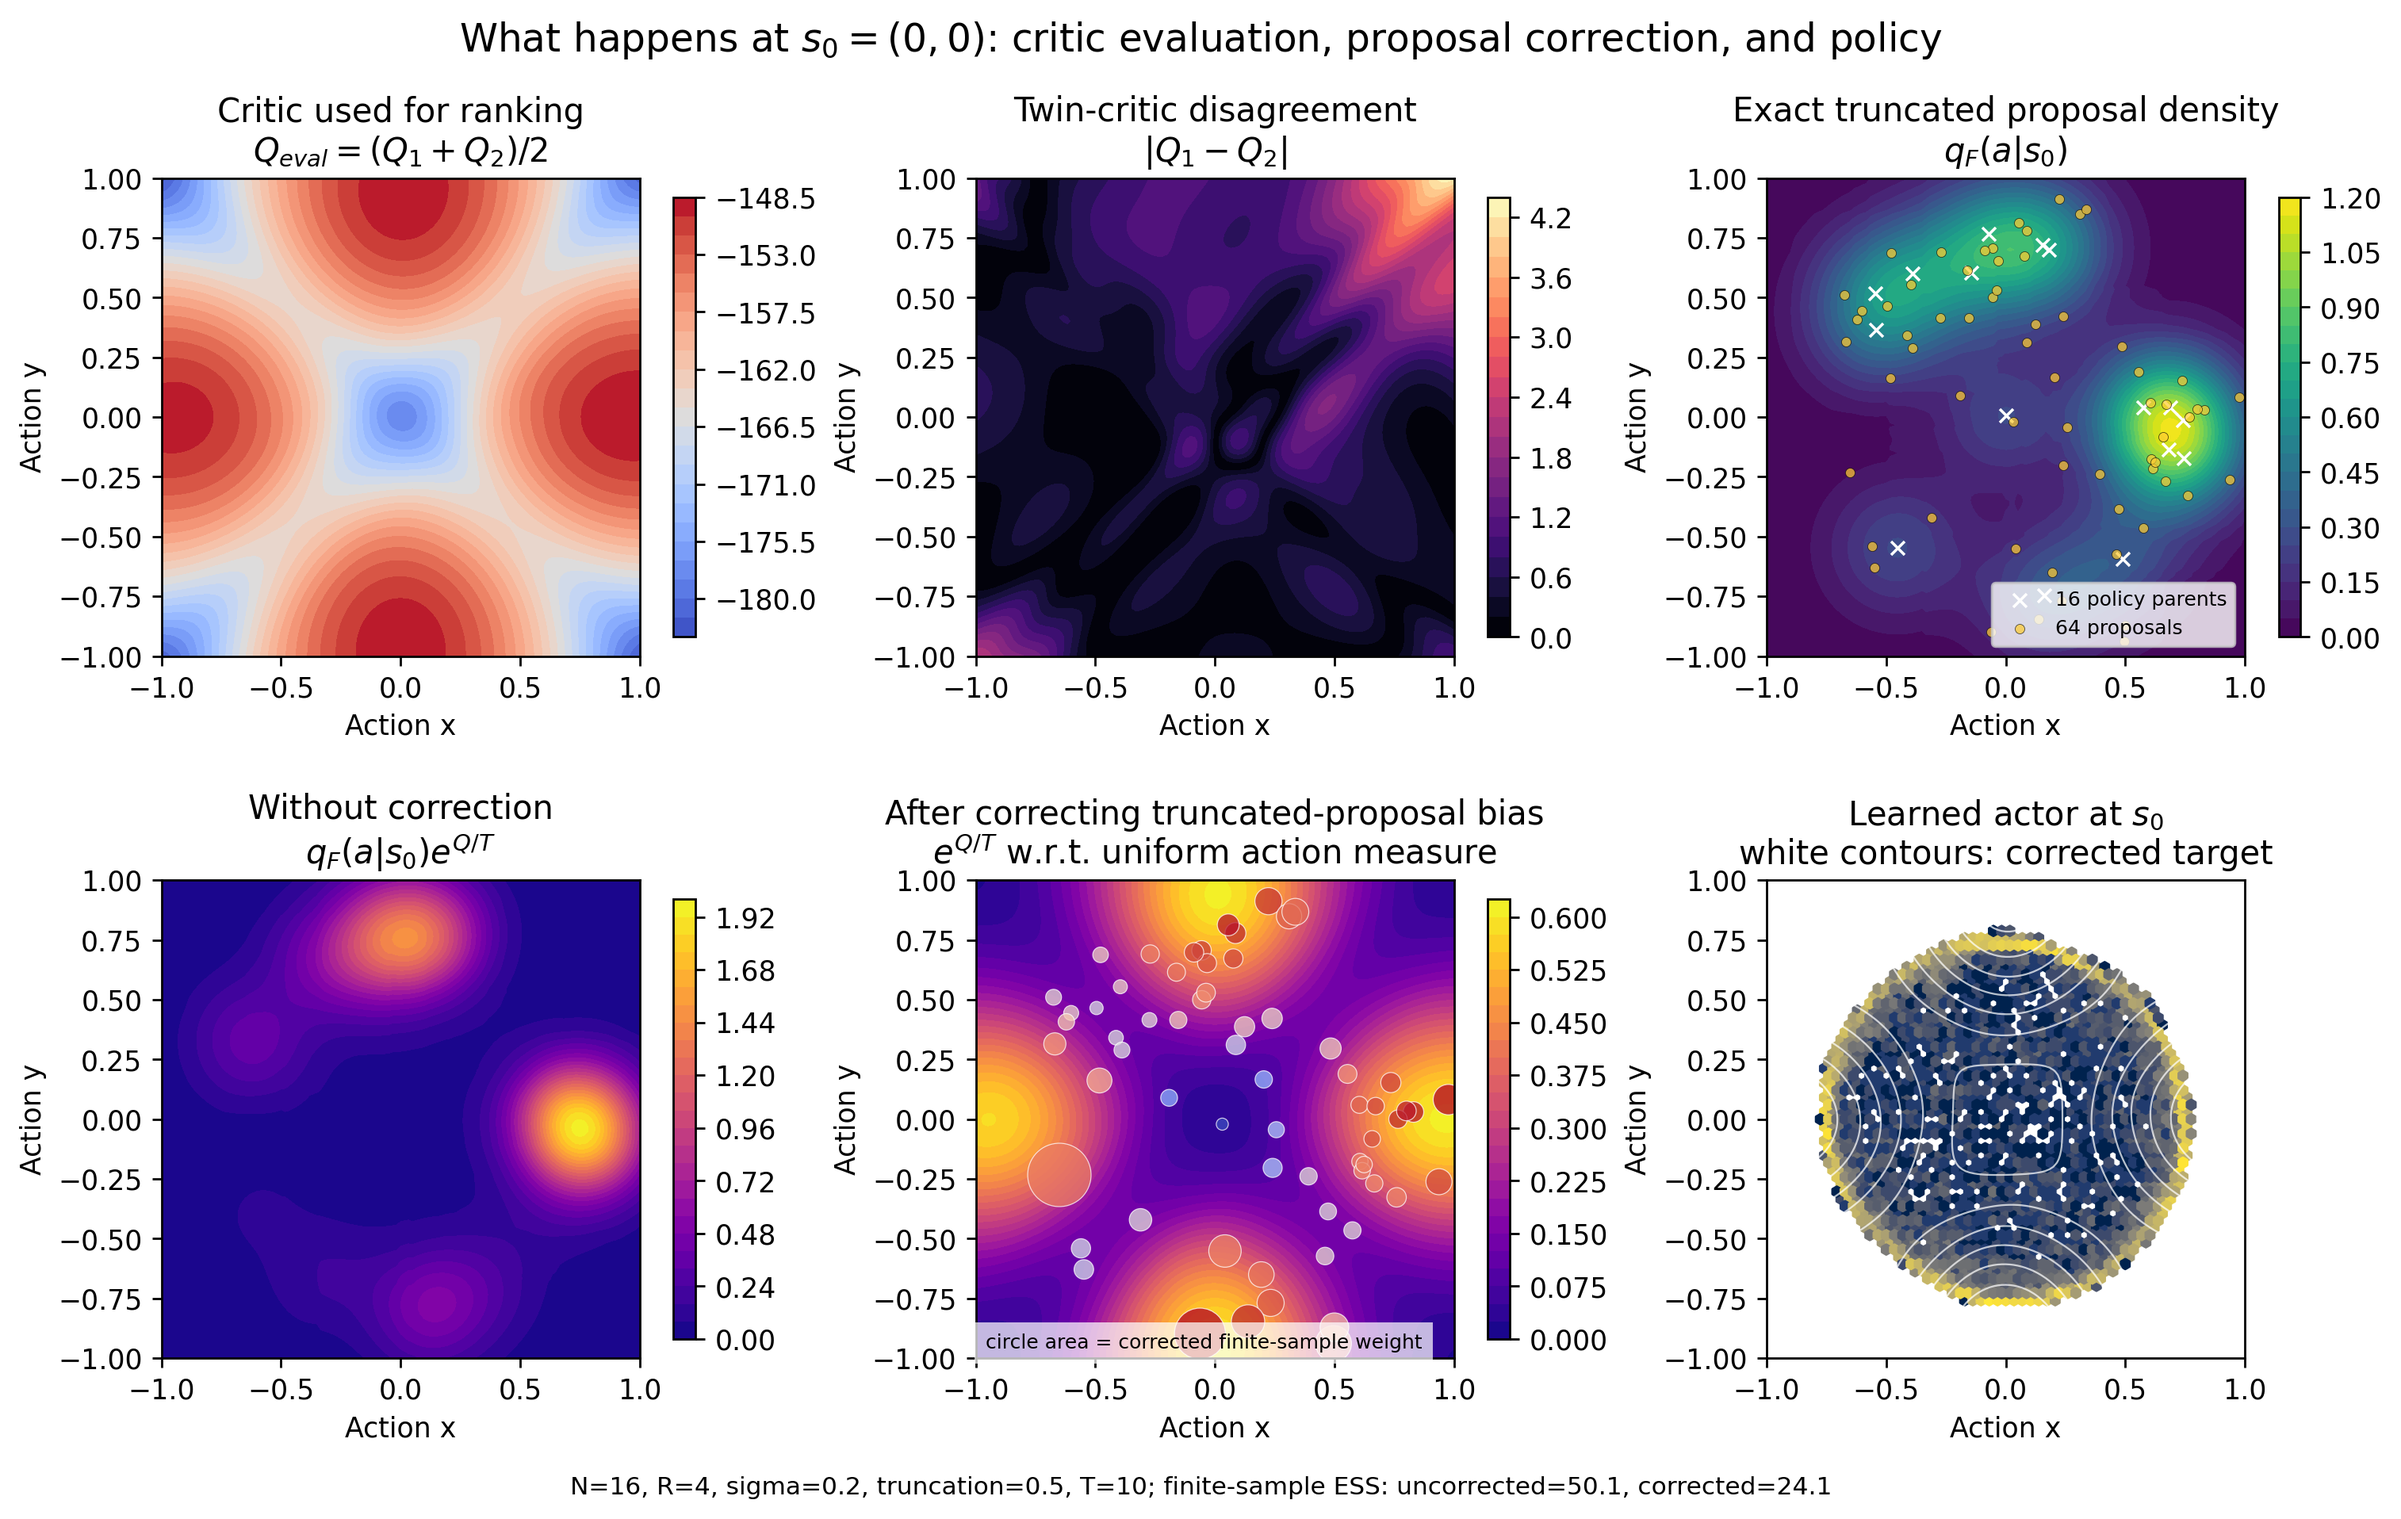
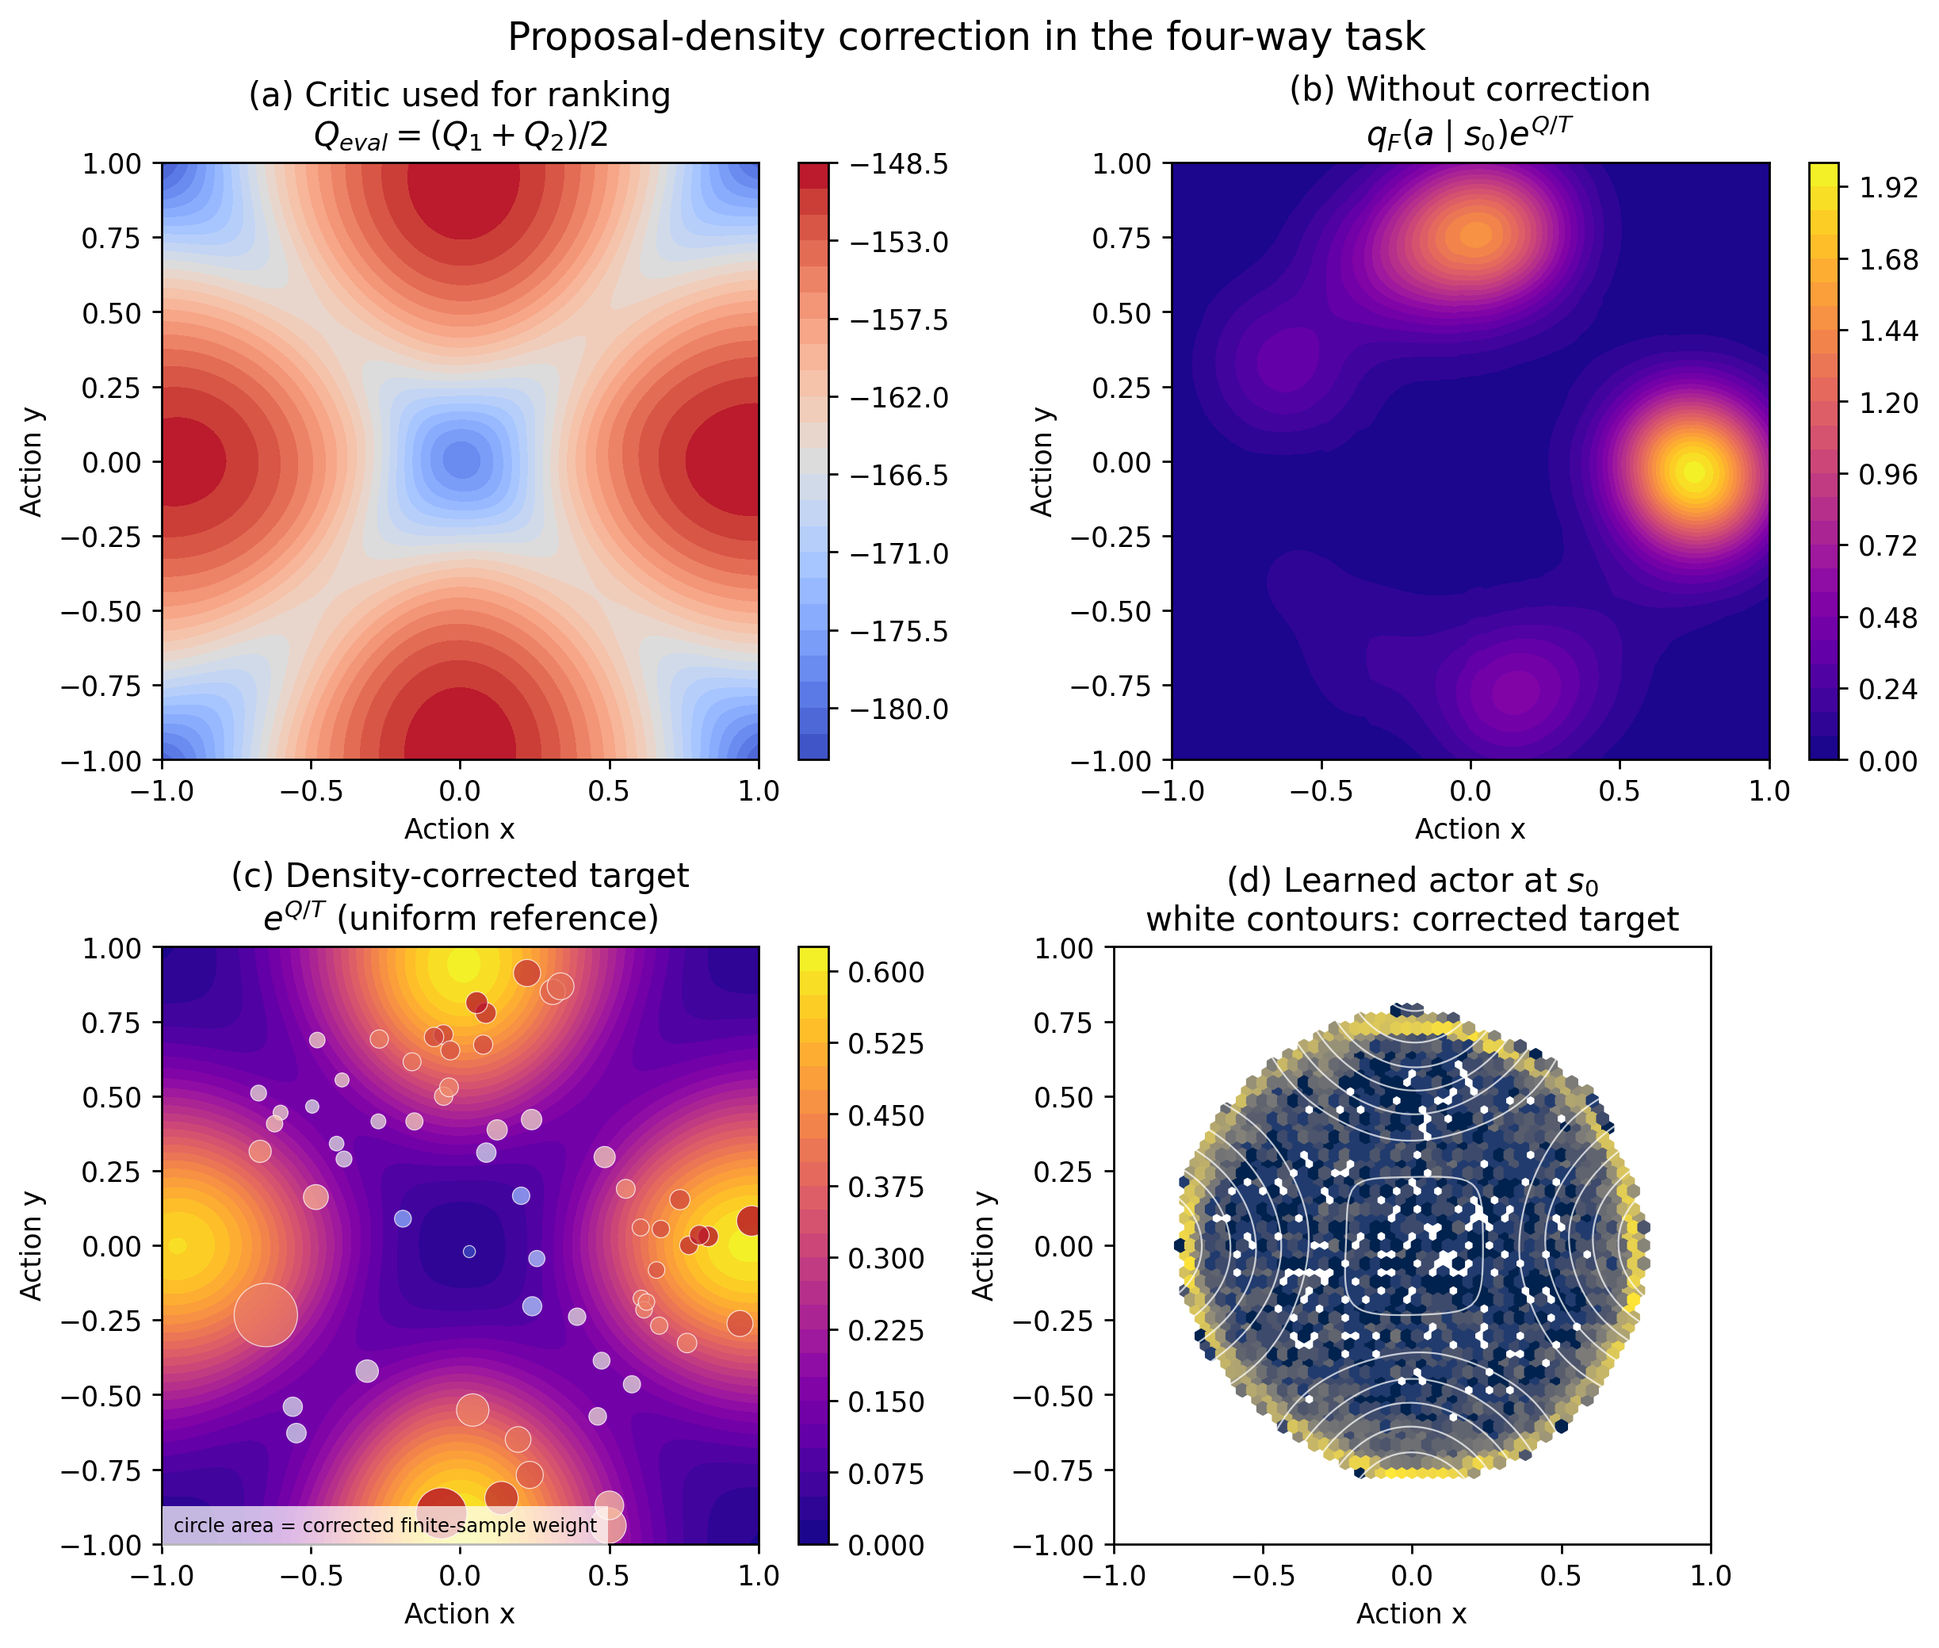
Refine four-way density correction figures

diff --git a/experiments/four_way_multigoal/plot_density_correction_ablation.py b/experiments/four_way_multigoal/plot_density_correction_ablation.py
@@ -1,0 +1,92 @@
+"""Compare four-way policy rollouts with and without density correction."""
+
+from __future__ import annotations
+
+import argparse
+import json
+from pathlib import Path
+
+import matplotlib.pyplot as plt
+import numpy as np
+
+from environment import MultiGoalEnv
+
+
+def reward_surface(points: np.ndarray, goals: np.ndarray) -> np.ndarray:
+    differences = points[..., None, :] - goals
+    return -np.square(differences).sum(axis=-1).min(axis=-1)
+
+
+def load_result(run_dir: Path) -> tuple[list[np.ndarray], dict]:
+    with np.load(run_dir / "trajectories.npz") as archive:
+        trajectories = [archive[key] for key in sorted(archive.files)]
+    summary = json.loads((run_dir / "summary.json").read_text())
+    return trajectories, summary
+
+
+def main() -> None:
+    parser = argparse.ArgumentParser(description=__doc__)
+    parser.add_argument("--uncorrected-run", type=Path, required=True)
+    parser.add_argument("--corrected-run", type=Path, required=True)
+    parser.add_argument("--output", type=Path, required=True)
+    args = parser.parse_args()
+
+    results = (
+        ("Without density correction", *load_result(args.uncorrected_run)),
+        ("With density correction", *load_result(args.corrected_run)),
+    )
+    environment = MultiGoalEnv()
+    state_axis = np.linspace(-7.5, 7.5, 301)
+    state_x, state_y = np.meshgrid(state_axis, state_axis)
+    rewards = reward_surface(
+        np.stack([state_x, state_y], axis=-1), environment.goal_positions
+    )
+
+    figure, axes = plt.subplots(1, 2, figsize=(9.2, 4.35), constrained_layout=True)
+    for panel, (title, trajectories, summary) in zip(axes, results, strict=True):
+        panel.contour(
+            state_x,
+            state_y,
+            rewards,
+            levels=18,
+            cmap="turbo",
+            linewidths=0.8,
+            alpha=0.68,
+        )
+        for trajectory in trajectories:
+            panel.plot(
+                trajectory[:, 0],
+                trajectory[:, 1],
+                color="#477db3",
+                alpha=0.2,
+                linewidth=0.75,
+            )
+        panel.scatter(
+            environment.goal_positions[:, 0],
+            environment.goal_positions[:, 1],
+            color="#c9342d",
+            edgecolor="white",
+            linewidth=0.6,
+            s=45,
+            zorder=5,
+        )
+        panel.scatter([0.0], [0.0], color="black", s=18, zorder=5)
+        entropy = summary["trajectory_goal_entropy"]
+        counts = summary["trajectory_goal_counts"]
+        panel.set(
+            title=f"{title}\nGoal counts {counts}, entropy {entropy:.3f}",
+            xlabel="State x",
+            ylabel="State y",
+            xlim=(-7.5, 7.5),
+            ylim=(-7.5, 7.5),
+            aspect="equal",
+        )
+
+    args.output.parent.mkdir(parents=True, exist_ok=True)
+    figure.savefig(args.output, dpi=250, bbox_inches="tight")
+    plt.close(figure)
+    print(args.output)
+
+
+if __name__ == "__main__":
+    main()

diff --git a/experiments/four_way_multigoal/README.md b/experiments/four_way_multigoal/README.md
@@ -11,6 +11,8 @@ paper draft.
 - `environment.py`: four-way continuous-control task.
 - `policy_extraction.py`: categorical OT versus independent assignment.
 - `train.py`: end-to-end online OptiQ training and rollout visualization.
+- `plot_density_correction_ablation.py`: matched-format rollout comparison for
+  trained policies with and without proposal-density correction.
 
 Generated results belong in `outputs/four_way_multigoal/`; selected figures are
 versioned in `assets/figures/four_way_multigoal/`.
